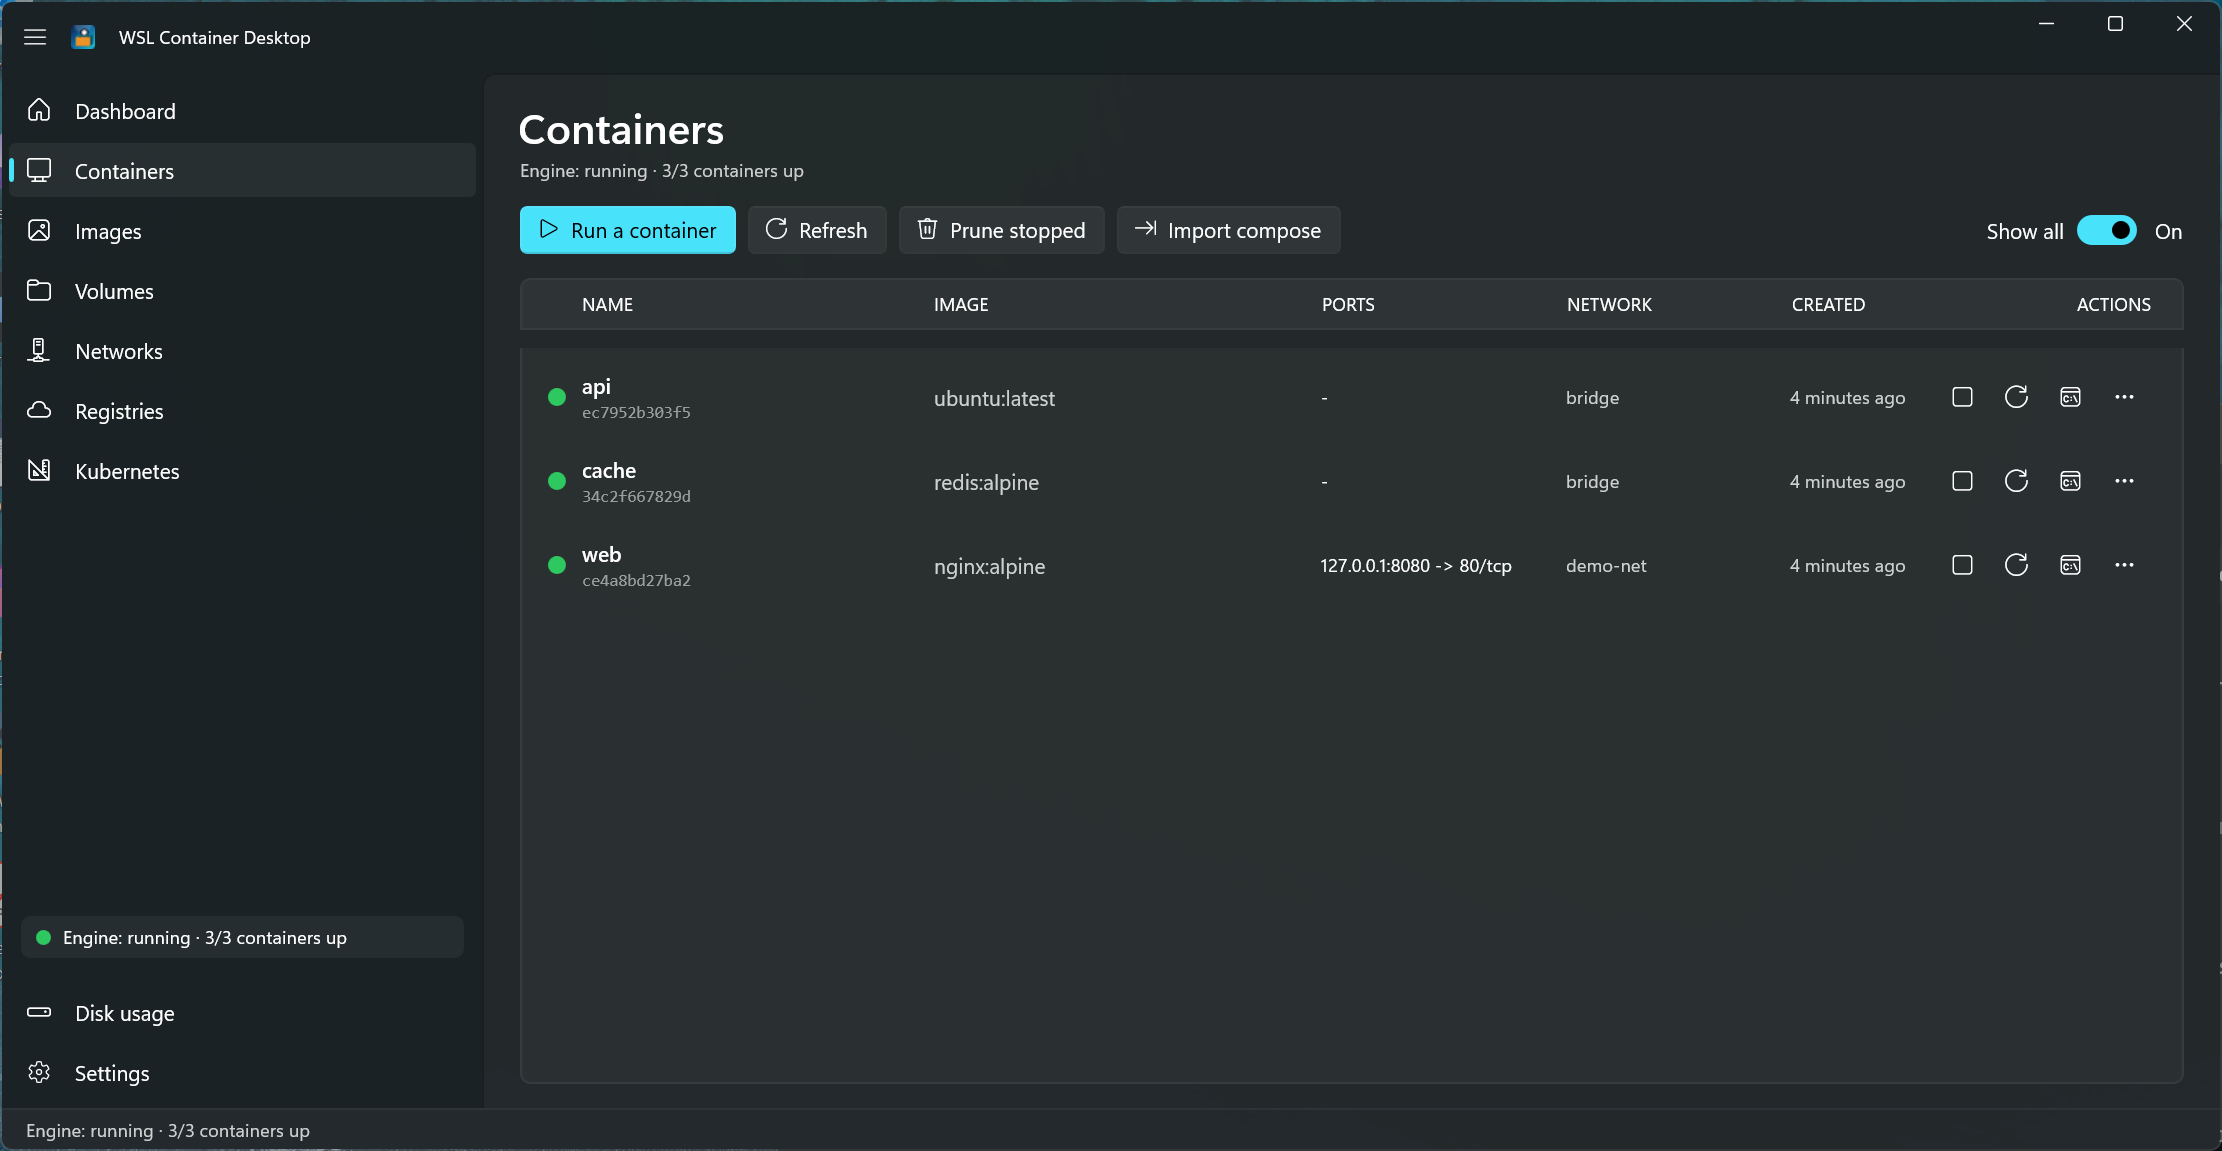
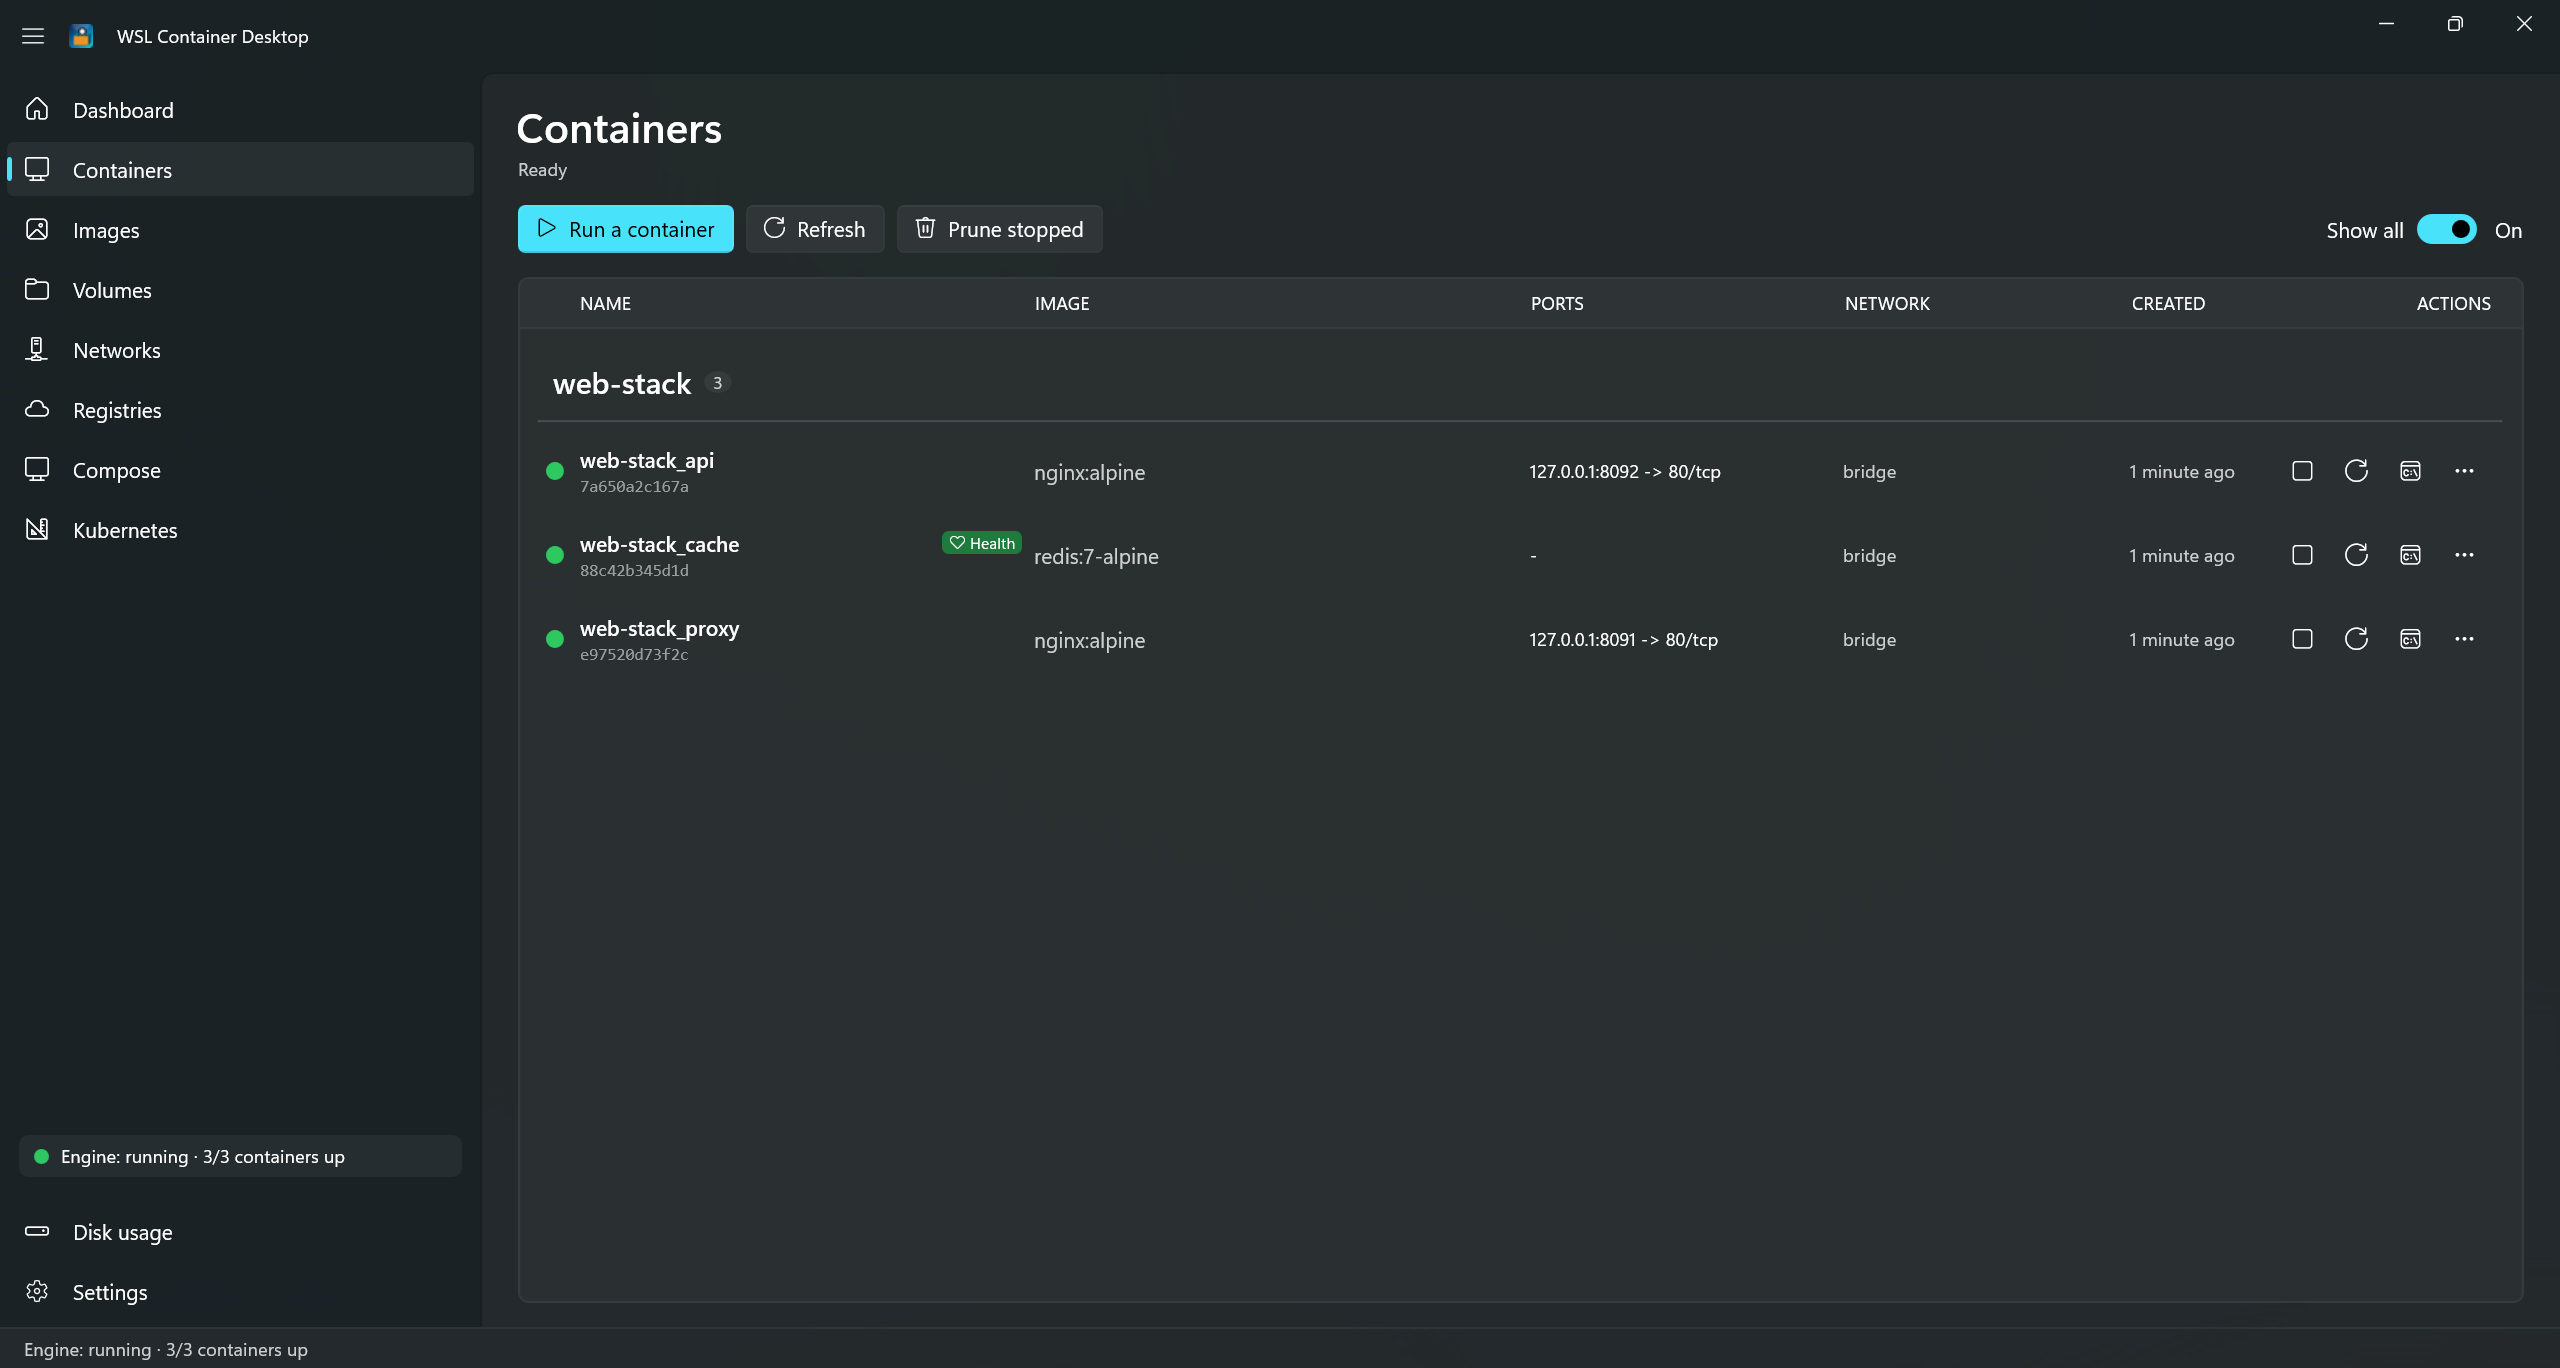
docs: add Compose page screenshot and refresh Containers screenshot with compose grouping
Copilot-Session: c26eb3b0-f43d-4907-81cd-a744c13a2e9d

diff --git a/README.md b/README.md
@@ -50,7 +50,7 @@ An at-a-glance overview with summary cards, a total-CPU meter, and a live per-co
 ![Dashboard](docs/screenshots/dashboard.png)
 
 ### Containers
-A live list with color-coded state and inline actions. Click any row for a full detail view.
+A live list with color-coded state and inline actions — with containers that belong to a **Docker Compose** project grouped together under the project name. Click any row for a full detail view.
 
 ![Containers](docs/screenshots/containers.png)
 
@@ -58,6 +58,11 @@ Container detail — **live logs** and a **Stats** tab (CPU, memory, network / b
 
 ![Container logs](docs/screenshots/container-detail-logs.png)
 ![Container stats](docs/screenshots/container-detail-stats.png)
+
+### Docker Compose
+Import a `docker-compose.yml` and bring the whole multi-service stack up, down, or restart it as a unit — with dependency ordering, health gating, and auto-heal enforced while the app runs.
+
+![Compose](docs/screenshots/compose.png)
 
 ### Images, Volumes & Networks
 